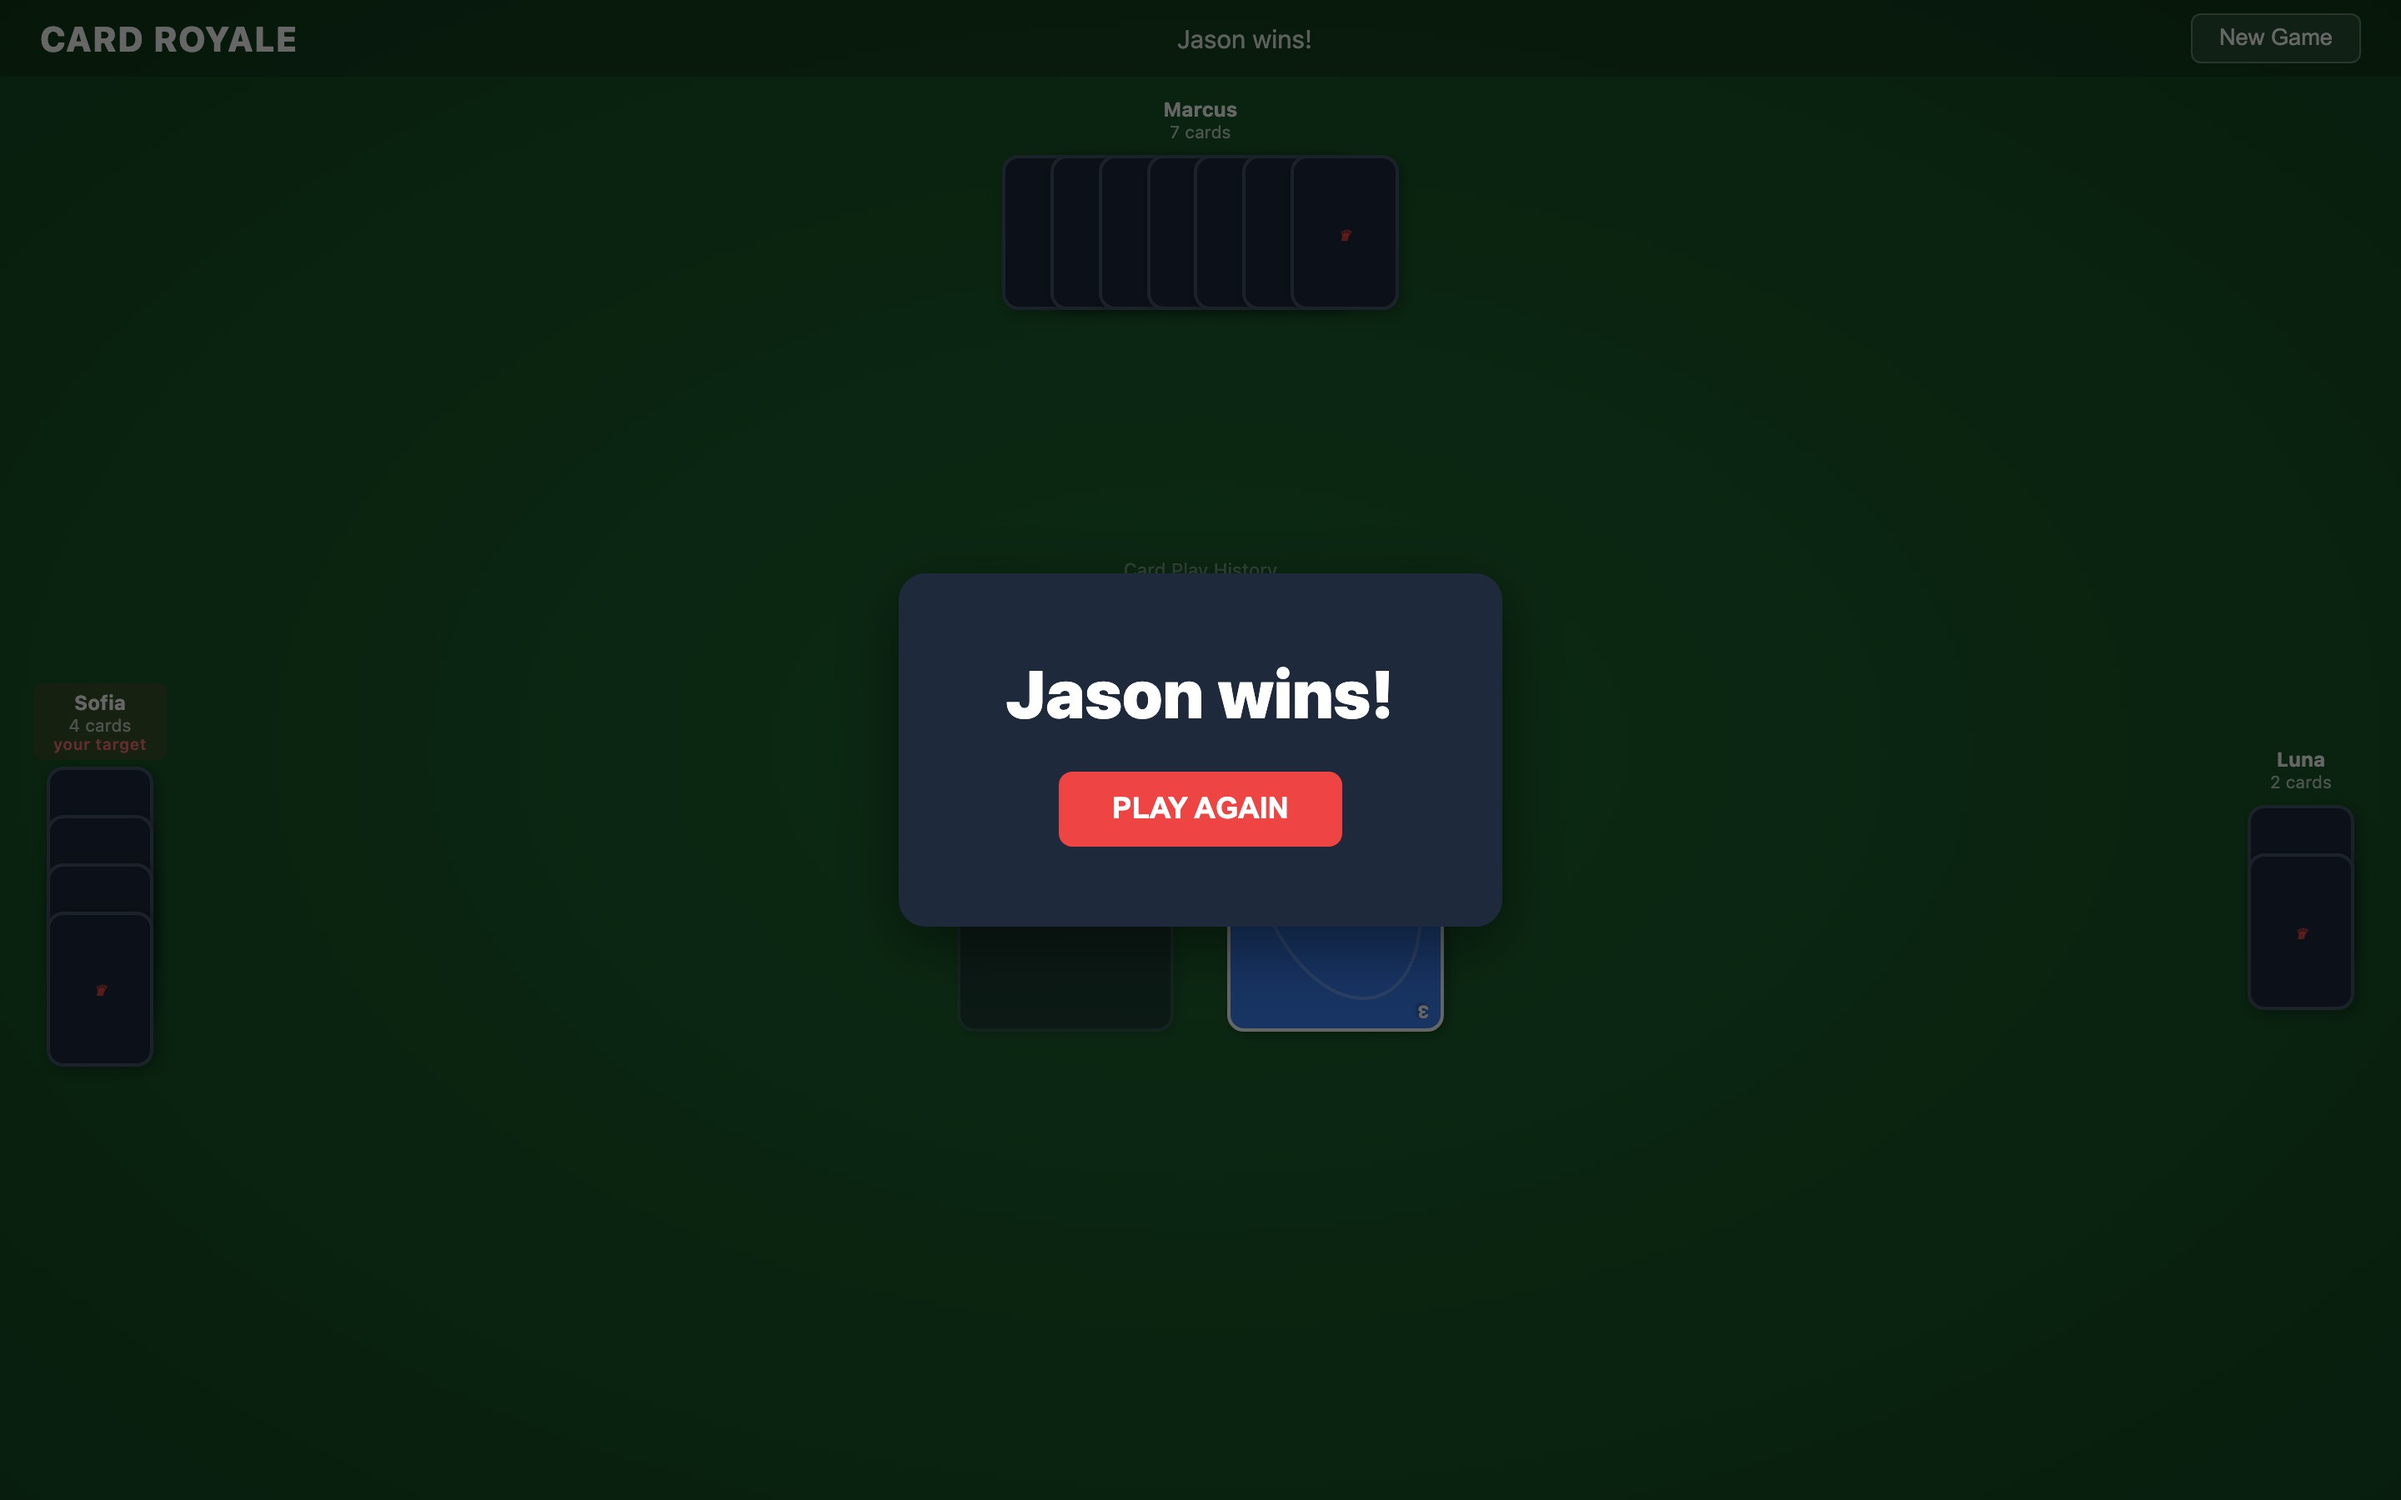
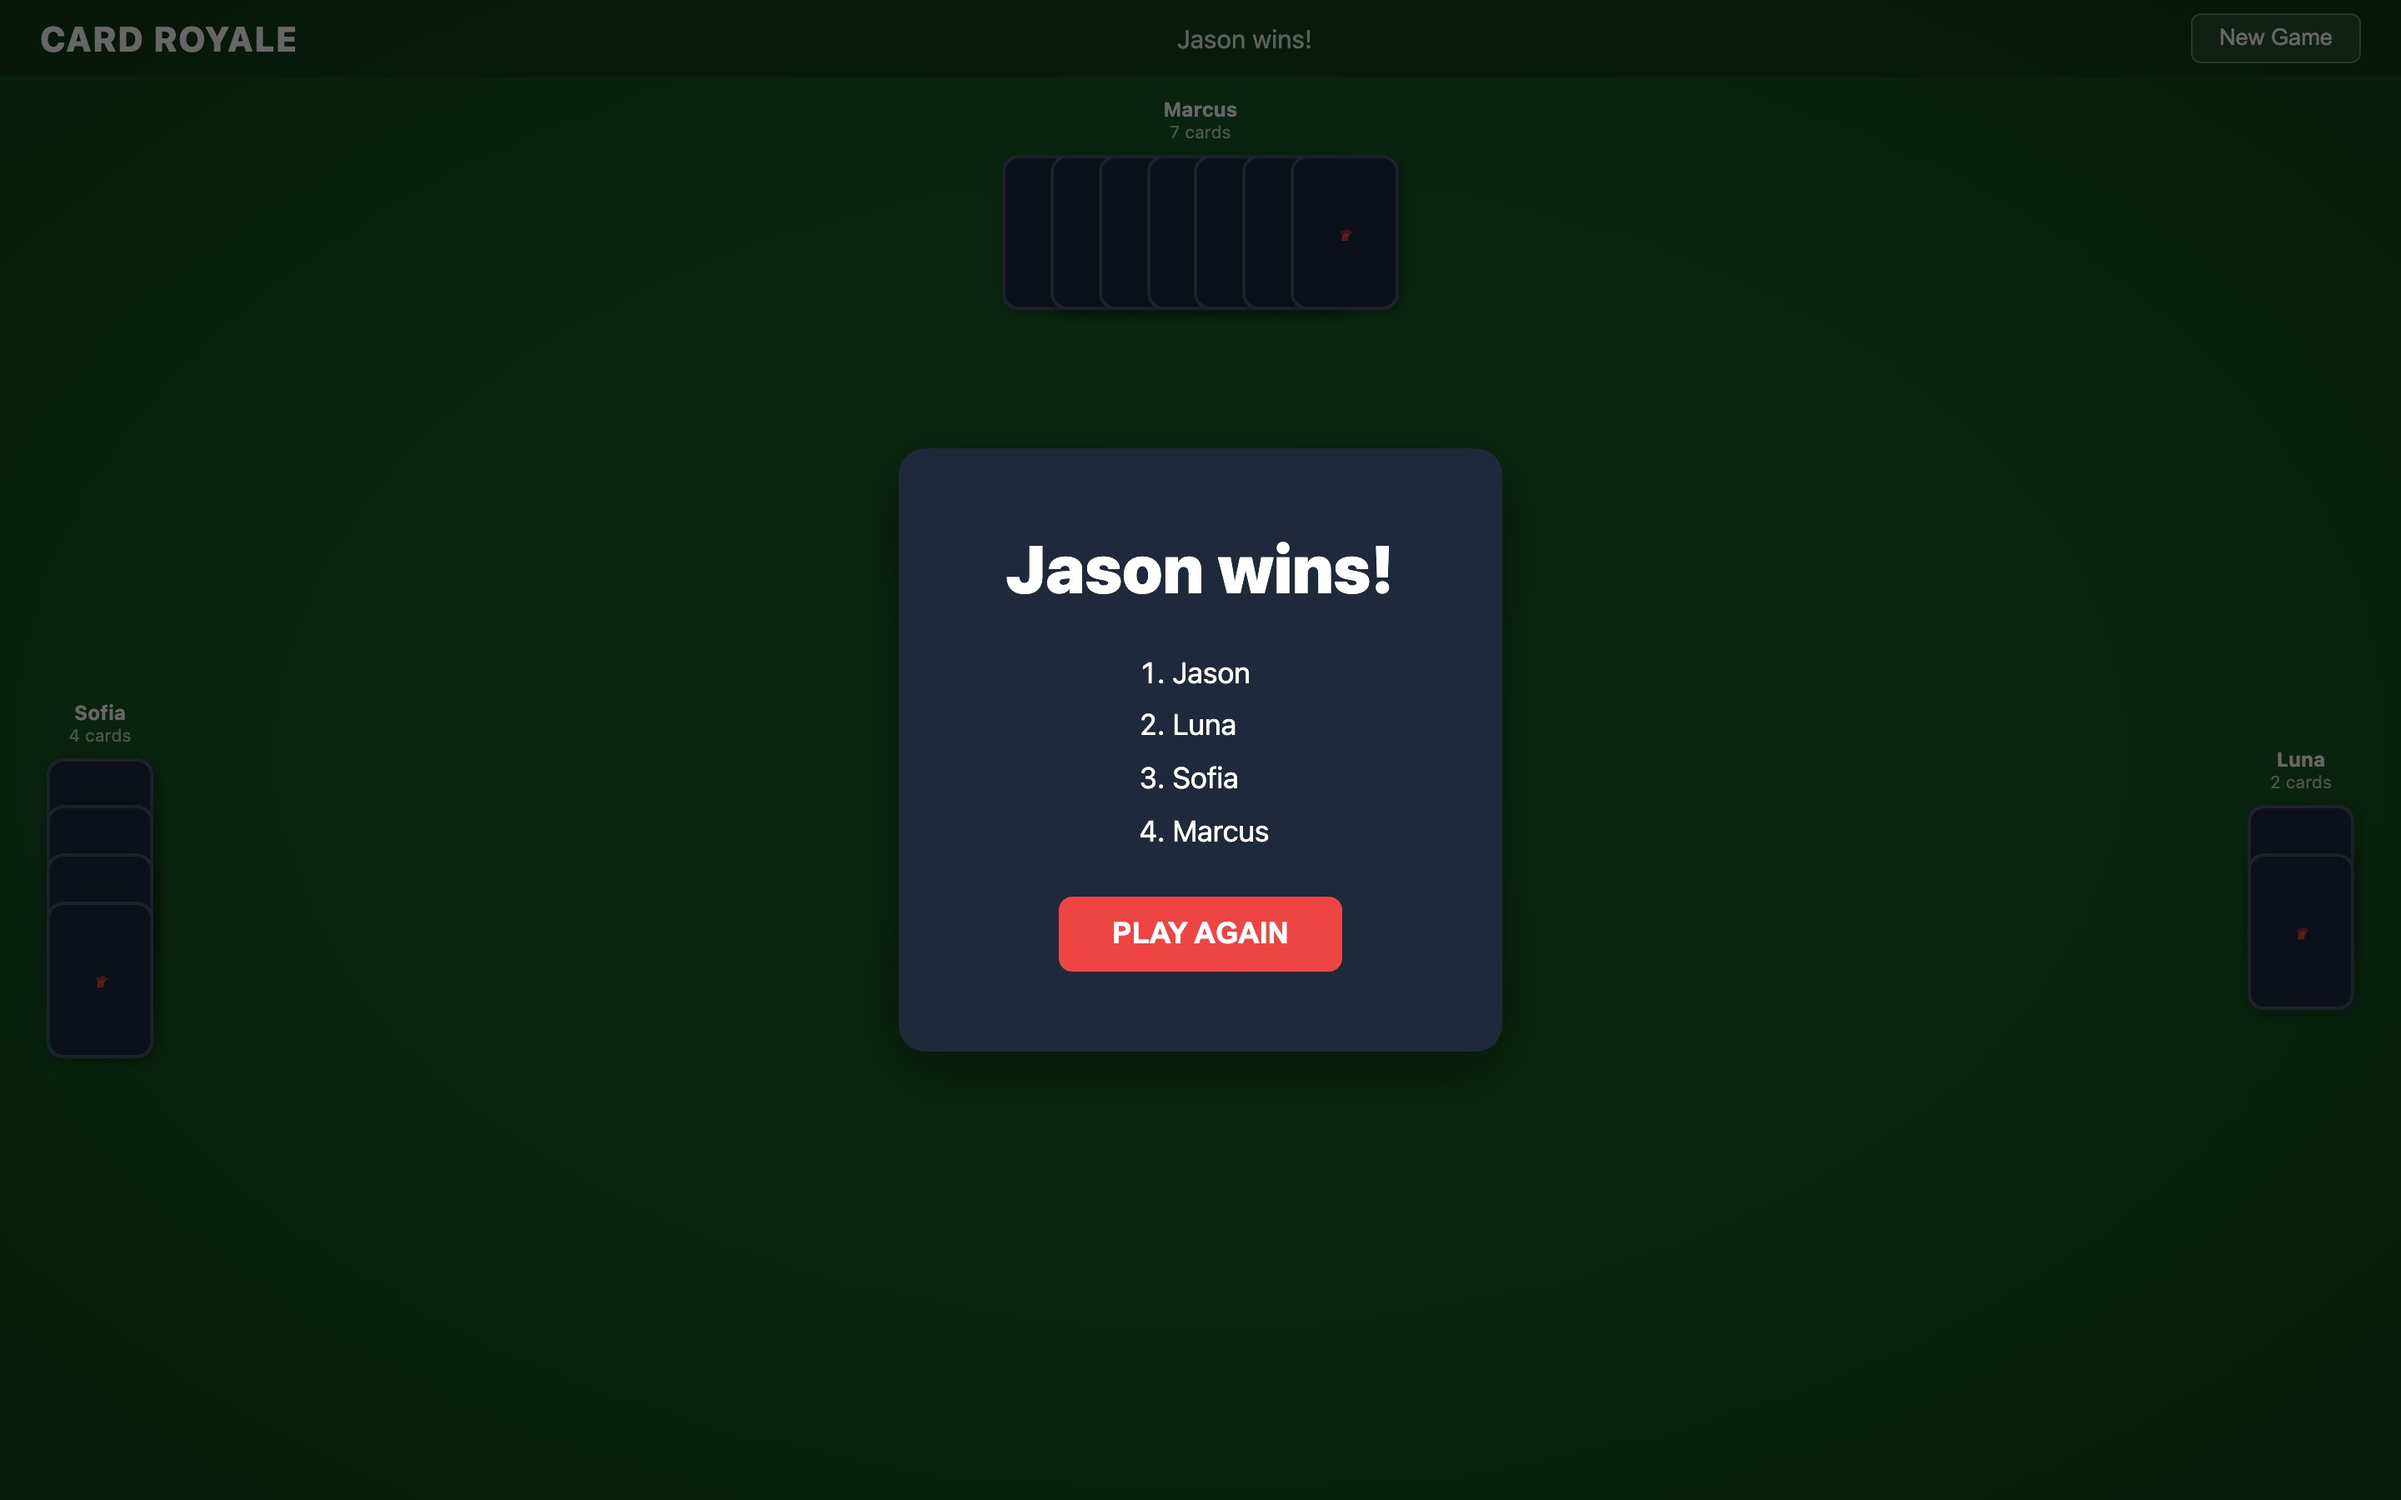
Continue play after the first player goes out
Replace the single winner index with a finished placement list. Turn order
skips players who have emptied their hand, and the game ends once only one
player still holds cards. The game-over overlay lists final placements.

Changed region(s): [[0.375, 0.4356, 0.625, 0.7156], [0.375, 0.28, 0.625, 0.4044], [0.0312, 0.4667, 0.0625, 0.5289]]

diff --git a/src/engine/game.test.ts b/src/engine/game.test.ts
@@ -209,8 +209,8 @@ describe('playCard', () => {
     }
   })
 
-  it('game over when hand is empty', () => {
-    let state = newGame('Test')
+  it('game over when hand is empty in a 2-player game', () => {
+    let state = newGame('Test', 2)
     const card: Card = { color: 'red', value: 5 }
     state = {
       ...state,
@@ -223,8 +223,56 @@ describe('playCard', () => {
     expect(result.ok).toBe(true)
     if (result.ok) {
       expect(result.state.phase).toBe('game_over')
-      expect(result.state.winner).toBe(0)
+      expect(result.state.finished).toEqual([0, 1])
     }
+  })
+
+  it('play continues after the first player empties their hand', () => {
+    let state = newGame('Test', 4)
+    state = {
+      ...state,
+      discardPile: [{ color: 'red', value: 1 }],
+      currentPlayer: 0,
+      direction: 'clockwise',
+    }
+    state = updatePlayer(state, 0, p => ({ ...p, hand: [{ color: 'red', value: 5 }], saidUno: true }))
+
+    const result = playCard(state, 0, 0)
+    expect(result.ok).toBe(true)
+    if (!result.ok) return
+    expect(result.state.phase).toBe('playing')
+    expect(result.state.finished).toEqual([0])
+    expect(result.state.currentPlayer).toBe(1)
+    expect(result.state.lastAction).toMatch(/is out in 1st!/)
+  })
+
+  it('turn order skips finished players and game ends with one left', () => {
+    let state = newGame('Test', 3)
+    state = {
+      ...state,
+      discardPile: [{ color: 'red', value: 1 }],
+      currentPlayer: 2,
+      direction: 'clockwise',
+      finished: [0],
+    }
+    state = updatePlayer(state, 2, p => ({ ...p, hand: [{ color: 'red', value: 5 }], saidUno: true }))
+
+    // Skip card targets player 1, the next unfinished player; from 2 clockwise wraps past finished 0
+    const skipState = updatePlayer(
+      { ...state, currentPlayer: 1 },
+      1,
+      p => ({ ...p, hand: [{ color: 'red', value: 'skip' }, ...p.hand], saidUno: false })
+    )
+    const skip = playCard(skipState, 1, 0)
+    expect(skip.ok).toBe(true)
+    if (!skip.ok) return
+    expect(skip.state.currentPlayer).toBe(1)
+
+    const result = playCard(state, 2, 0)
+    expect(result.ok).toBe(true)
+    if (!result.ok) return
+    expect(result.state.phase).toBe('game_over')
+    expect(result.state.finished).toEqual([0, 2, 1])
   })
 })
 
@@ -332,7 +380,7 @@ describe('UNO penalty', () => {
   })
 
   it('allows win when UNO was called', () => {
-    let state = newGame('Test')
+    let state = newGame('Test', 2)
     const card: Card = { color: 'red', value: 5 }
     state = {
       ...state,
@@ -345,14 +393,14 @@ describe('UNO penalty', () => {
     expect(result.ok).toBe(true)
     if (result.ok) {
       expect(result.state.phase).toBe('game_over')
-      expect(result.state.winner).toBe(0)
+      expect(result.state.finished[0]).toBe(0)
     }
   })
 })
 
 describe('AI win', () => {
   it('AI wins after calling UNO with 2 cards then playing last card next turn', () => {
-    let state = newGame('Test')
+    let state = newGame('Test', 2)
     const card1: Card = { color: 'red', value: 3 }
     const card2: Card = { color: 'red', value: 5 }
     state = {
@@ -385,7 +433,7 @@ describe('AI win', () => {
     expect(play2.ok).toBe(true)
     if (!play2.ok) return
     expect(play2.state.phase).toBe('game_over')
-    expect(play2.state.winner).toBe(1)
+    expect(play2.state.finished[0]).toBe(1)
   })
 })
 

diff --git a/src/engine/game.ts b/src/engine/game.ts
@@ -60,7 +60,7 @@ export function newGame(playerName: string, playerCount: number = MAX_PLAYERS): 
     currentPlayer: 0,
     direction: 'counter_clockwise',
     phase: 'playing',
-    winner: null,
+    finished: [],
     lastAction: `Game started! ${cardToString(firstCard)} on the pile.`,
     unoPenalty: false,
     recentPlays: [],
@@ -199,10 +199,7 @@ function doPlayCard(
       s = { ...s, unoPenalty: playerIndex === 0, lastAction: `${penaltyAction} ${s.lastAction}` }
       return { ok: true, state: s }
     } else {
-      return {
-        ok: true,
-        state: { ...s, phase: 'game_over', winner: playerIndex, lastAction: `${player.name} wins!` },
-      }
+      return { ok: true, state: finishPlayer(s, playerIndex, playedCard) }
     }
   } else {
     // Reset saidUno only when hand has more than 1 card remaining —
@@ -213,6 +210,28 @@ function doPlayCard(
     s = applyCardEffect(s, playedCard, playerIndex)
     return { ok: true, state: s }
   }
+}
+
+function finishPlayer(state: GameState, playerIndex: number, playedCard: Card): GameState {
+  const player = state.players[playerIndex]
+  const finished = [...state.finished, playerIndex]
+  const remaining = state.players.map((_, i) => i).filter(i => !finished.includes(i))
+
+  if (remaining.length <= 1) {
+    return {
+      ...state,
+      phase: 'game_over',
+      finished: [...finished, ...remaining],
+      lastAction: finished.length === 1 ? `${player.name} wins!` : `${player.name} is out! Game over.`,
+    }
+  }
+
+  const s = applyCardEffect({ ...state, finished }, playedCard, playerIndex)
+  return { ...s, lastAction: `${player.name} is out in ${ordinal(finished.length)}! ${s.lastAction}` }
+}
+
+function ordinal(n: number): string {
+  return `${n}${['th', 'st', 'nd', 'rd'][n % 10 <= 3 && Math.floor(n / 10) !== 1 ? n % 10 : 0]}`
 }
 
 function applyCardEffect(state: GameState, card: Card, playerIndex: number): GameState {

diff --git a/src/engine/gameState.ts b/src/engine/gameState.ts
@@ -11,7 +11,7 @@ export interface GameState {
   currentPlayer: number
   direction: Direction
   phase: Phase
-  winner: number | null
+  finished: number[]
   lastAction: string | null
   unoPenalty: boolean
   recentPlays: [string, Card][]
@@ -37,7 +37,11 @@ export function updatePlayer(
 export function nextPlayerIndex(state: GameState): number {
   const count = state.players.length
   const delta = state.direction === 'clockwise' ? 1 : count - 1
-  return (state.currentPlayer + delta) % count
+  let idx = state.currentPlayer
+  do {
+    idx = (idx + delta) % count
+  } while (state.finished.includes(idx) && idx !== state.currentPlayer)
+  return idx
 }
 
 export function recordPlay(state: GameState, playerName: string, card: Card): GameState {

diff --git a/src/App.vue b/src/App.vue
@@ -104,10 +104,10 @@ function onDealComplete() {
   isNewGame.value = false
 }
 
-function winnerName(): string {
+function placements(): string[] {
   const gs = controller.gameState.value
-  if (!gs || gs.winner == null) return ''
-  return gs.players[gs.winner].name
+  if (!gs) return []
+  return gs.finished.map(i => gs.players[i].name)
 }
 
 // Watch for UNO penalty on the human player
@@ -220,7 +220,7 @@ function renderMarkdown(md: string): string {
         @deal-complete="() => {}"
         @menu="showMenu = !showMenu"
       />
-      <GameOverOverlay :winner-name="winnerName()" @play-again="newGameRestart" />
+      <GameOverOverlay :placements="placements()" @play-again="newGameRestart" />
     </template>
 
     <!-- Pause Menu -->

diff --git a/src/components/GameOverOverlay.vue b/src/components/GameOverOverlay.vue
@@ -1,6 +1,6 @@
 <script setup lang="ts">
 defineProps<{
-  winnerName: string
+  placements: string[]
 }>()
 
 const emit = defineEmits<{
@@ -11,7 +11,10 @@ const emit = defineEmits<{
 <template>
   <div class="modal-overlay">
     <div class="game-over">
-      <h2 class="game-over__title">{{ winnerName }} wins!</h2>
+      <h2 class="game-over__title">{{ placements[0] }} wins!</h2>
+      <ol class="game-over__placements">
+        <li v-for="name in placements" :key="name">{{ name }}</li>
+      </ol>
       <button class="btn-play-again" @click="emit('playAgain')">Play Again</button>
     </div>
   </div>

diff --git a/src/gameController.ts b/src/gameController.ts
@@ -34,7 +34,7 @@ export function useGameController() {
     track({
       event: 'finished',
       players: state.players.length,
-      winner: state.players[state.winner!].type === 'human' ? 'human' : 'ai',
+      winner: state.players[state.finished[0]].type === 'human' ? 'human' : 'ai',
       duration_s: Math.round((Date.now() - startedAt) / 1000),
     })
   }

diff --git a/src/style.css b/src/style.css
@@ -933,6 +933,14 @@ body {
   font-weight: 900;
 }
 
+.game-over__placements {
+  margin: 0;
+  padding-left: 1.5rem;
+  text-align: left;
+  font-size: 1.1rem;
+  line-height: 1.8;
+}
+
 .btn-play-again {
   padding: 0.75rem 2rem;
   border-radius: 8px;
